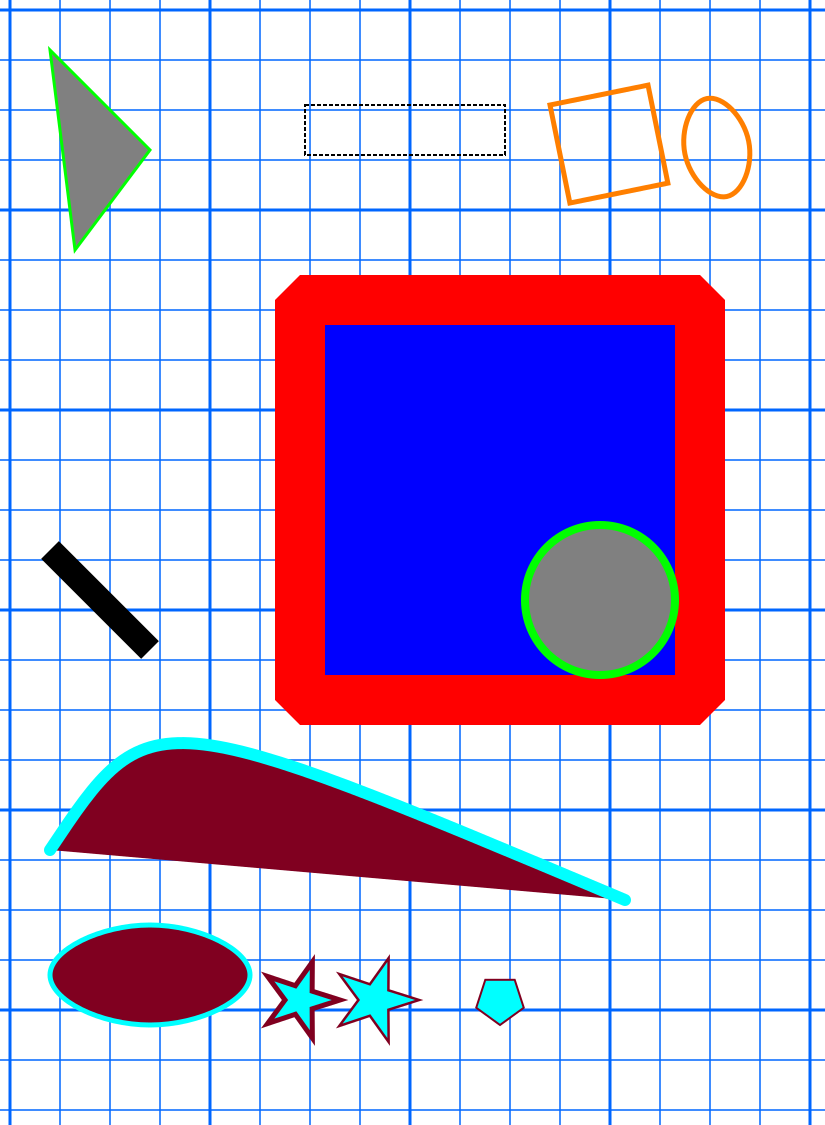
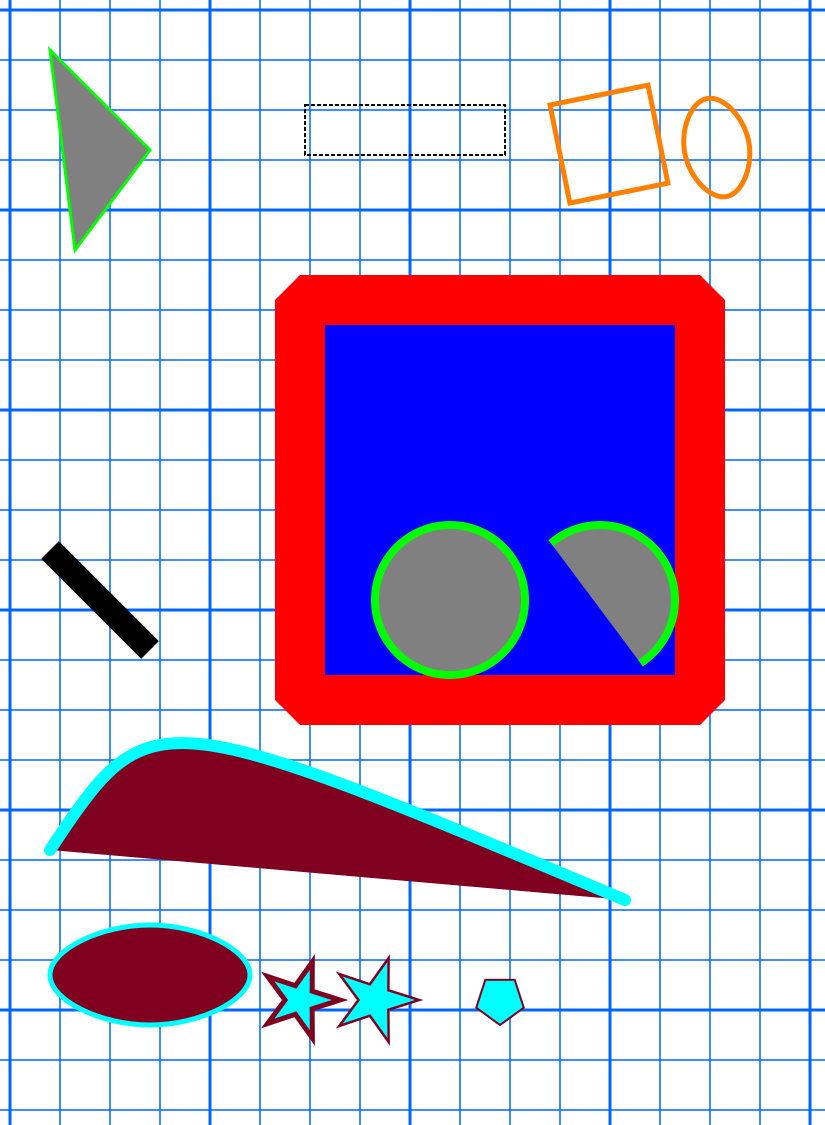
more tests for circle arc
Also document it in the CHANGELOG.

Changed region(s): [[0.4242, 0.4667, 0.7879, 0.6222]]

diff --git a/samples/shapes/_draw_shapes.rb b/samples/shapes/_draw_shapes.rb
@@ -18,7 +18,11 @@ Squib::Deck.new do
   ellipse x: 675, y: 105, width: 65, height: 100,
        stroke_width: 5, stroke_color: :orange, angle: -0.2
 
-  circle x: 600, y: 600, radius: 75,
+  circle x: 450, y: 600, radius: 75,
+         fill_color: :gray, stroke_color: :green, stroke_width: 8.0
+
+  circle x: 600, y: 600, radius: 75, # partial circle
+         arc_start: 1, arc_end: 4, arc_direction: :counter_clockwise,
          fill_color: :gray, stroke_color: :green, stroke_width: 8.0
 
   triangle x1: 50, y1: 50,

diff --git a/CHANGELOG.md b/CHANGELOG.md
@@ -1,6 +1,13 @@
 # Squib CHANGELOG
 Squib follows [semantic versioning](http://semver.org).
 
+## v0.14.0 / Unreleased
+
+Features:
+* `circle` method now supports various `arc` options, so you can draw partial circles (#211) by @sparr
+
+Special thanks to @sparr for all of his work!!
+
 ## v0.13.2 / 2017-01-27
 
 Bugs:
